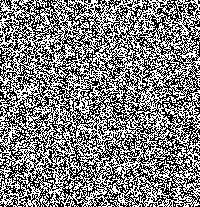
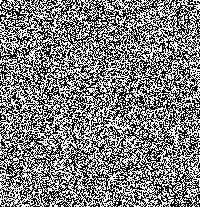
cw02

diff --git a/cw02/zad_04.py b/cw02/zad_04.py
@@ -1,0 +1,97 @@
+def find_word(msg_sum, word):
+    word_b = [0] * len(word)
+
+    for i in range(0, len(word)):
+        word_b[i] = ord(word[i])
+
+    for i in range(0, len(msg_sum) - len(word_b)):
+        msg_with_key = msg_sum.copy()
+        j = 0
+
+        while j < len(word_b):
+            msg_with_key[i + j] = msg_sum[i + j] ^ word_b[j]
+            j += 1
+
+        for a in range(i, len(word_b) + i):
+            msg_with_key[a] = chr(msg_with_key[a])
+
+        print('Word on pos = ', i, ': ', msg_with_key[i:i + len(word_b)])
+
+
+def add_str(msg1, msg2):
+    msg_sum = [''] * len(msg1)
+    msg1_b = [0] * len(msg1)
+    msg2_b = [0] * len(msg2)
+    # msg_sum_b = [0] * len(msg1)
+
+    for i in range(0, len(msg1)):
+        msg1_b[i] = ord(msg1[i])
+        msg2_b[i] = ord(msg2[i])
+        msg_sum[i] = chr(msg1_b[i] ^ msg2_b[i])
+        # msg_sum_b[i] = msg1_b[i] ^ msg2_b[i]
+
+    return msg_sum
+
+
+def add_str_to_message_on_index(msg, index, str):
+    j = 0
+
+    for i in range(index, index + len(str)):
+        msg[i] = str[j]
+        j += 1
+
+    print("msg: ", msg)
+
+    return msg
+
+
+if __name__ == '__main__':
+    msg1_enc = '\x1e\x17\x0c\x12\x1b\x08\x0cf\x0e\x11x\x1a\x1c\x12o\x06\x18\x1f\x17\x03\x10\x01fkh\x1f\x08'
+    msg2_enc = '\x0b\ni\x07\x1c\x02k\x1f\x16e\x01\x0b\x07\x03\n\x15\x15\x0c\x1el\x07\x03\x03\x16\x01\x01\x02'
+
+    message_sum = add_str(msg1_enc, msg2_enc)
+    print(message_sum)
+
+    msg1_encoded = [''] * len(msg1_enc)
+    msg2_encoded = [''] * len(msg1_enc)
+
+    msg1_final = ''
+    msg2_final = ''
+
+    j = 0
+    while (1):
+        print('\n Enter possible word: ')
+        key = input()
+
+        if key == '-1':
+            break
+
+        for i in range(0, len(message_sum) - len(key) + 1):
+            encoded_str = add_str(message_sum[i:i + len(key)], key)
+            print('i = ', i, ': ', encoded_str)
+
+        print('\n Enter index nr: ')
+        index = int(input())
+
+        if index == -1:
+
+            break
+
+        encoded_str = add_str(message_sum[index:index + len(key)], key)
+        print('index = ', index, ': ', encoded_str)
+
+        if j % 2 == 0:
+            add_str_to_message_on_index(msg1_encoded, index, key)
+            add_str_to_message_on_index(msg2_encoded, index, encoded_str)
+        else:
+            add_str_to_message_on_index(msg1_encoded, index, encoded_str)
+            add_str_to_message_on_index(msg2_encoded, index, key)
+
+        j += 1
+
+    for n in range(0, len(msg1_encoded)):
+        msg1_final = msg1_final + msg1_encoded[n]
+        msg2_final = msg2_final + msg2_encoded[n]
+
+    print("Message 1: ", msg1_final)
+    print("Message 2: ", msg2_final)

diff --git a/cw02/zad_03.py b/cw02/zad_03.py
@@ -3,18 +3,16 @@ import numpy
 
 
 def add_pic(img, key):
-    a_img = numpy.array(img, dtype=numpy.uint8)
-    a_key = numpy.array(key, dtype=numpy.uint8)
+    a_img = numpy.array(img, dtype=numpy.uint8)  # stworzenie tablicy typu uint8 z obrazka
+    a_key = numpy.array(key, dtype=numpy.uint8)  # stworzenie tablicy typu uint8 z obrazka
 
+    # tworzę tablicę o wymiarach takich jak
+    # obrazek typu uint8 i wypełniam zerami
     result = numpy.random.randint(1, size=(heigh, width), dtype=numpy.uint8)
 
     for i in range(0, len(a_img)):
         for j in range(0, len(a_img[0])):
-            a = a_img[i][j]
-            k = a_key[i][j]
-            if a == k:
-                result[i][j] = 0
-            else:
+            if a_img[i][j] != a_key[i][j]:  # jeśli bity na odpowiadających sobie pozycjach są różne, wstawiane jest 255
                 result[i][j] = 255
 
     return result
@@ -24,10 +22,12 @@ if __name__ == '__main__':
     miki = Image.open('miki.png').convert('L')
     quest = Image.open('quest.png').convert('L')
 
-    width, heigh = miki.size
+    width, heigh = miki.size  # pobranie wymiarów obrazka
 
+    # stworzenie klucza jako tablicy o podanych wymiarach z randomowo wstawionymi 0 lub 1
     key = numpy.random.randint(0, 2, size=(heigh, width), dtype=numpy.uint8)
 
+    # 1 w tablicy zamieniane na 255
     for i in range(0, heigh):
         for j in range(0, width):
             if key[i][j] == 1:
@@ -38,6 +38,8 @@ if __name__ == '__main__':
 
     miki_coded = add_pic(miki, key)
     miki_coded_img = Image.fromarray(miki_coded)
+
+    # zapisanie zakodowanego obrazku do pliku .png
     miki_coded_img.save("miki_coded.png", "PNG")
 
     quest_coded = add_pic(quest, key)
